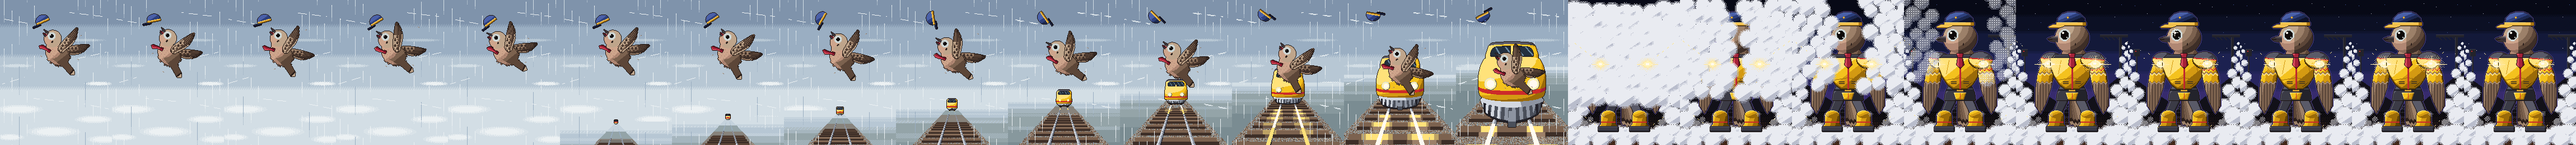
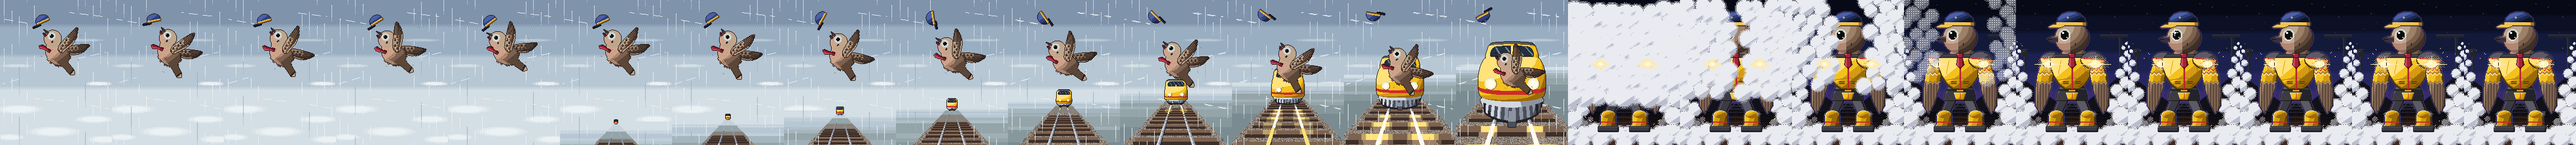
Birdie: no tail on his armored figure or in his armored cutscene
Removes the tail layer from Armored Birdie's figure (every animation) and
from the cutscene's armored drawing, and re-bakes the cutscene sheet.

Claude-Session: https://claude.ai/code/session_01JuCWRuZRPHWMgtg61MmXVy

diff --git a/packages/app/src/characters/birdie-cutscene-armored.ts b/packages/app/src/characters/birdie-cutscene-armored.ts
@@ -386,37 +386,6 @@ function build(): Character {
     );
   }
 
-  /** His long dove's tail sweeping behind him to our right: grey-brown, banded, a dark band and a pale tip. */
-  const tailName = body(
-    painted("tail", 96, 150, 102, 92, (F) => {
-      // A long wedge from behind his hips down to our right, widening, its tip rounded to a point.
-      const [x0, y0] = [102, 166];
-      const ux = 0.2;
-      const uy = 0.98;
-      const LEN = 64;
-      const coords = (x: number, y: number) => {
-        const along = (x + 0.5 - x0) * ux + (y + 0.5 - y0) * uy;
-        const across = -(x + 0.5 - x0) * uy + (y + 0.5 - y0) * ux;
-        return [along, across] as const;
-      };
-      // Fanning out toward the end, which is cut into rounded feather tips.
-      const hw = (a: number) => 6 + a * 0.2;
-      const endAt = (c: number) => LEN - (c * c) / 30 - Math.abs(((c + 60) % 6) - 3) * 1.4;
-      const inside: Inside = (x, y) => {
-        const [a, c] = coords(x, y);
-        return a >= 0 && Math.abs(c) < hw(a) && a < endAt(c);
-      };
-      F(inside, (x, y) => {
-        const [a, c] = coords(x, y);
-        const end = endAt(c);
-        if (a > end - 6) return c < -2 ? "e" : "d";
-        if (a > end - 12) return "s";
-        if (Math.abs(c) > 1 && Math.round(c + 60) % 6 === 0) return "b";
-        return ramp("bcde", 0.6 - (0.45 * c) / hw(a) - a * 0.002);
-      });
-    }),
-  );
-
   wing("wingF", [[46, 114], [66, 116], [68, 132], [62, 160], [54, 184], [44, 204], [35, 190], [35, 160], [39, 132]], true);
   wing("wingN", [[134, 116], [154, 114], [161, 132], [165, 160], [165, 190], [156, 204], [146, 184], [138, 160], [132, 132]], false);
   pauldron("pauldronF", 63, 108, 19, 14, LAMP_F, GLASS_F, true);
@@ -645,7 +614,7 @@ function build(): Character {
     specks?: Speck[];
   }
   const L = (name: string): Layer => ({ part: name, x: AT[name]![0], y: AT[name]![1] });
-  const HIM = [tailName, "wingF", "pauldronF", "legF", "legN", "hips", "head", "chest", "tie", "wingN", "pauldronN", "cap"];
+  const HIM = ["wingF", "pauldronF", "legF", "legN", "hips", "head", "chest", "tie", "wingN", "pauldronN", "cap"];
   function shot(ms: number, s: Shot): Frame {
     const b = s.bloom ?? 0;
     const glow = [L(`bloomF${b}0`), L(`bloomN${b}0`)];

diff --git a/packages/app/src/characters/birdie-armored.ts b/packages/app/src/characters/birdie-armored.ts
@@ -291,24 +291,6 @@ function pauldron(cx: number, cy: number, rx: number, ry: number, lamp: Pt, far:
 add("pauldronF", () => pauldron(23, 31, 5.6, 4.4, LAMP_F, true));
 add("pauldronN", () => pauldron(50.5, 31, 6.6, 4.8, LAMP_N, false));
 
-/** His long tapered tail hanging behind him, seen between his legs: grey-brown, a dark band and a pale tip. */
-add(
-  "tail",
-  () => painted(38, 50, 32, 25, (F) => {
-    // Sweeping back (to our right) and down behind his near leg, tapering to a point.
-    const inside = inPoly([[39, 52], [46, 51], [55, 59], [64, 66.5], [67.5, 70.5], [62, 69.5], [53, 65], [43, 59]]);
-    const ux = 0.75;
-    const uy = 0.66;
-    F(inside, (x, y) => {
-      const along = (x + 0.5 - 40) * ux + (y + 0.5 - 52) * uy;
-      if (along > 29) return "e";
-      if (along > 27.5) return "s";
-      const across = (x + 0.5 - 40) * uy - (y + 0.5 - 52) * ux;
-      return Math.floor(along) % 4 === 0 && across < 1 ? "a" : ramp("bcd", 0.5 + 0.15 * across);
-    });
-  }),
-);
-
 /** His shadow on the ground. */
 add(
   "shadow",
@@ -338,7 +320,6 @@ function layers(p: ArmorPose = {}): Layer[] {
   const L = (name: string, dy = 0, dx = 0): Layer => ({ part: name, x: AT[name]![0] + dx, y: AT[name]![1] + dy });
   return [
     L("shadow"),
-    L("tail"),
     L("wingF", up),
     L("pauldronF", up),
     L("legF"),

diff --git a/packages/app/src/characters/birdie-cutscene-sheet.ts b/packages/app/src/characters/birdie-cutscene-sheet.ts
@@ -10,5 +10,5 @@ export const BIRDIE_CUTSCENE_SHEET = {
   reveal: { at: 14, ms: [200, 200, 200, 200, 200, 200], loop: false, cues: ["", "", "", "", "", ""] },
   hold: { at: 20, ms: [300, 300, 300], loop: true, cues: ["", "", ""] },
   },
-  hash: "0d99d586dad5f10f",
+  hash: "4ba8f0520b0b9a02",
 } as const;
